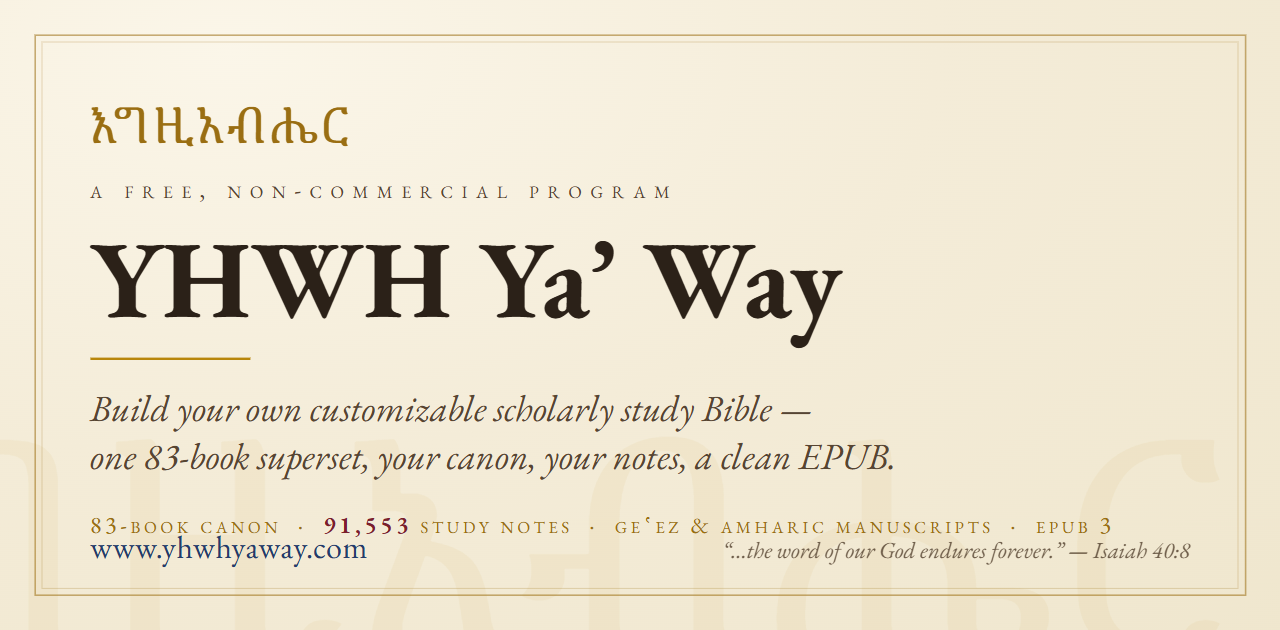
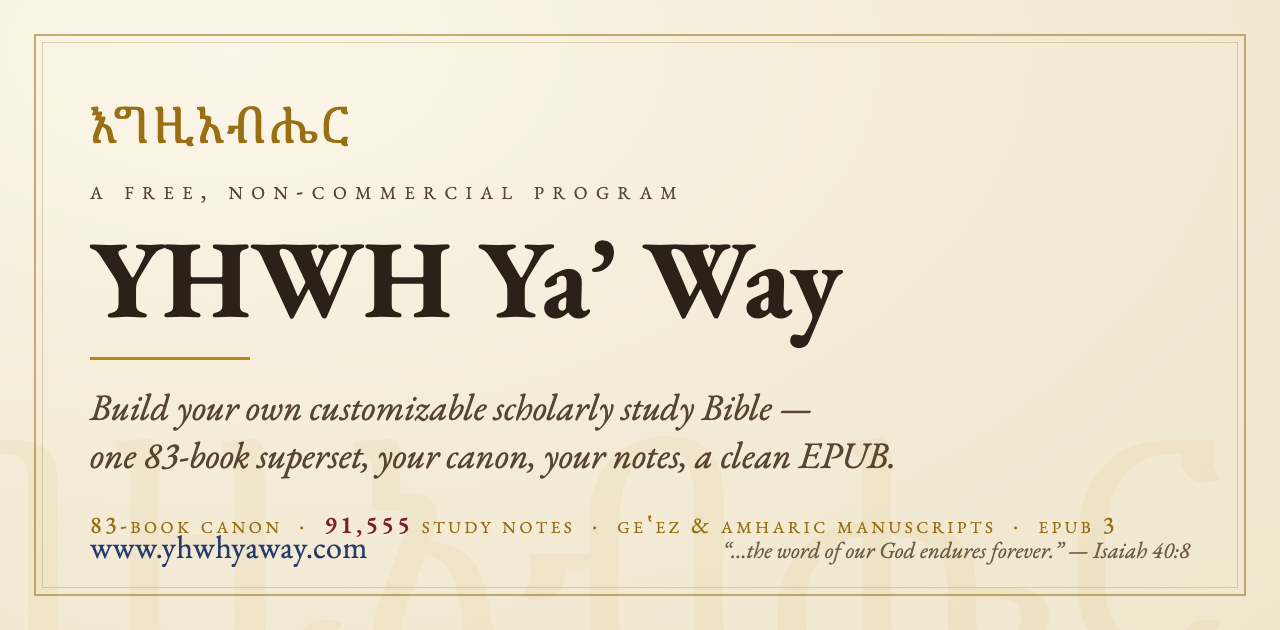
Phase F website PUBLISH (mac): re-render social card to 91,555 + deploy live
- brand/ + website/social-card.png: re-rendered from card.html at 1280x630 (91,555)
- website/partials/head.html: og/twitter image cache-bust v=20260608 -> v=20260622
- deployed yhwh-website 3ab8f70..fb4cfcc (build.mjs 0 dead links; +Geez 1Ki 7-10);
  live-verified www.yhwhyaway.com (new card 319874B, og v=20260622, 91,555, four canon)
- GitHub v0.1.0 release body: 91,553->91,555 + nine starting editions->four canon-shaped
  study editions (plus full customize) + dropped stale count from byte-stability line;
  GitLab body = thin pointer, 0 stale (no edit)
- LANE_HANDOFF: Phase F PUBLISH done note + retired-SKU-asset flag for WIN truth_owner

diff --git a/website/partials/head.html b/website/partials/head.html
@@ -14,14 +14,14 @@
   <meta property="og:title" content="{{title}}">
   <meta property="og:description" content="{{desc}}">
   <meta property="og:url" content="{{canonical}}">
-  <meta property="og:image" content="https://www.yhwhyaway.com/social-card.png?v=20260608">
+  <meta property="og:image" content="https://www.yhwhyaway.com/social-card.png?v=20260622">
   <meta property="og:image:width" content="1280">
   <meta property="og:image:height" content="630">
   <meta property="og:image:alt" content="YHWH Ya’ Way — a free program that lets you build your own study Bible, on your own computer.">
   <meta name="twitter:card" content="summary_large_image">
   <meta name="twitter:title" content="{{title}}">
   <meta name="twitter:description" content="{{desc}}">
-  <meta name="twitter:image" content="https://www.yhwhyaway.com/social-card.png?v=20260608">
+  <meta name="twitter:image" content="https://www.yhwhyaway.com/social-card.png?v=20260622">
 
   <!-- Icons -->
   <link rel="icon" type="image/png" sizes="32x32" href="{{root}}favicon-32.png">

diff --git a/dev/LANE_HANDOFF.md b/dev/LANE_HANDOFF.md
@@ -20,6 +20,20 @@ WIN reconciled the count cascade **in source** (commit `5d156842`, pushed) to Ma
 
 Per-edition shipped figures (any catalog surface): **ethiopian 91,555 · catholic-study 43,370 · evangelical-reformed 41,847 · eastern-orthodox 41,819** (kinds 71/50/44/46 of 72).
 
+## ✅ Mac Phase F website PUBLISH — DONE + LIVE-VERIFIED (2026-06-22)
+
+All 5 publish steps complete; **www.yhwhyaway.com is live with 91,555 + the new card.**
+
+1. **Social card re-rendered** from `brand/sources/card.html` (now reads 91,555) → headless-Chrome screenshot at exactly **1280×630**, visually verified (91,555 in red small-caps, EB Garamond title, Ge'ez watermark, palette correct) → wrote **both** `brand/social-card.png` + `website/social-card.png`.
+2. **og cache-bust bumped** in `website/partials/head.html`: `social-card.png?v=20260608` → `?v=20260622` (og:image + twitter:image) — forces X/iMessage/Slack to refetch (cleaner than the interactive validators; covers step 5).
+3. **Rebuilt** `node website/build.mjs` → **0 dead links**; `dist/` picked up the new card + 91,555 bodies + Ge'ez **1 Kings 7–10** reader pages (1ki/7–10 now emitted).
+4. **Deployed** `yhwh-website` `3ab8f70..fb4cfcc` (fresh clone → `rsync -a --delete` dist → push). **Live-verified:** `social-card.png?v=20260622` = HTTP 200 / 319,874 B (the re-render); index `og:image` = `?v=20260622`; body = `91,555` + `four canon-shaped`. **0** instances of `91,553` in the deployed tree.
+5. **Release bodies:** **GitHub v0.1.0** edited — `91,553`→`91,555`; `nine starting editions`→`four canon-shaped study editions (plus full customize)`; also dropped the stale count from a 2nd byte-stability line (`the nine King-James-canon editions`→`the King-James-canon editions`). Verified **0** stale literals live. **GitLab v0.1.0** = thin pointer to the GitHub release ("canonical release home") — **0** stale literals, no edit needed.
+
+**Platform-repo commit:** `brand/social-card.png` + `website/social-card.png` + `website/partials/head.html` (`dist/` is gitignored). The publish clone lives at `~/yhwh-website-pub` (kept for future deploys; `git pull` it first per README).
+
+> ⚠ **Flag for truth_owner (WIN):** the v0.1.0 **release ASSETS** still include epubs for the **two retired notes-only SKUs** (the pair the `check_retired_edition_skus` lint guards — see SESSION_STATE catalog truth) from the 2026-06-10 cut — the body now says "four canon-shaped study editions," but the attached assets predate the SKU retirement. Re-cutting the asset set belongs to the **v1.0.0 tag** ("desktop binaries + edition assets re-cut at tag", SESSION_STATE) — not touched here. (Phrased without the literal SKU strings so the retired-SKU lint stays green.) Please fold Phase F = DONE into SESSION_STATE/CHANGELOG.
+
 ## ▶ Rule-consolidation parity → Mac (2026-06-21, rule-change parity — mirror + ACK each)
 
 WIN landed the rules+accuracy consolidation (plan `docs/superpowers/plans/2026-06-21-rules-and-accuracy-consolidation.md`). Mac pulls, then mirrors these into per-box memory + ACKs here (diff only real OS reasons):
